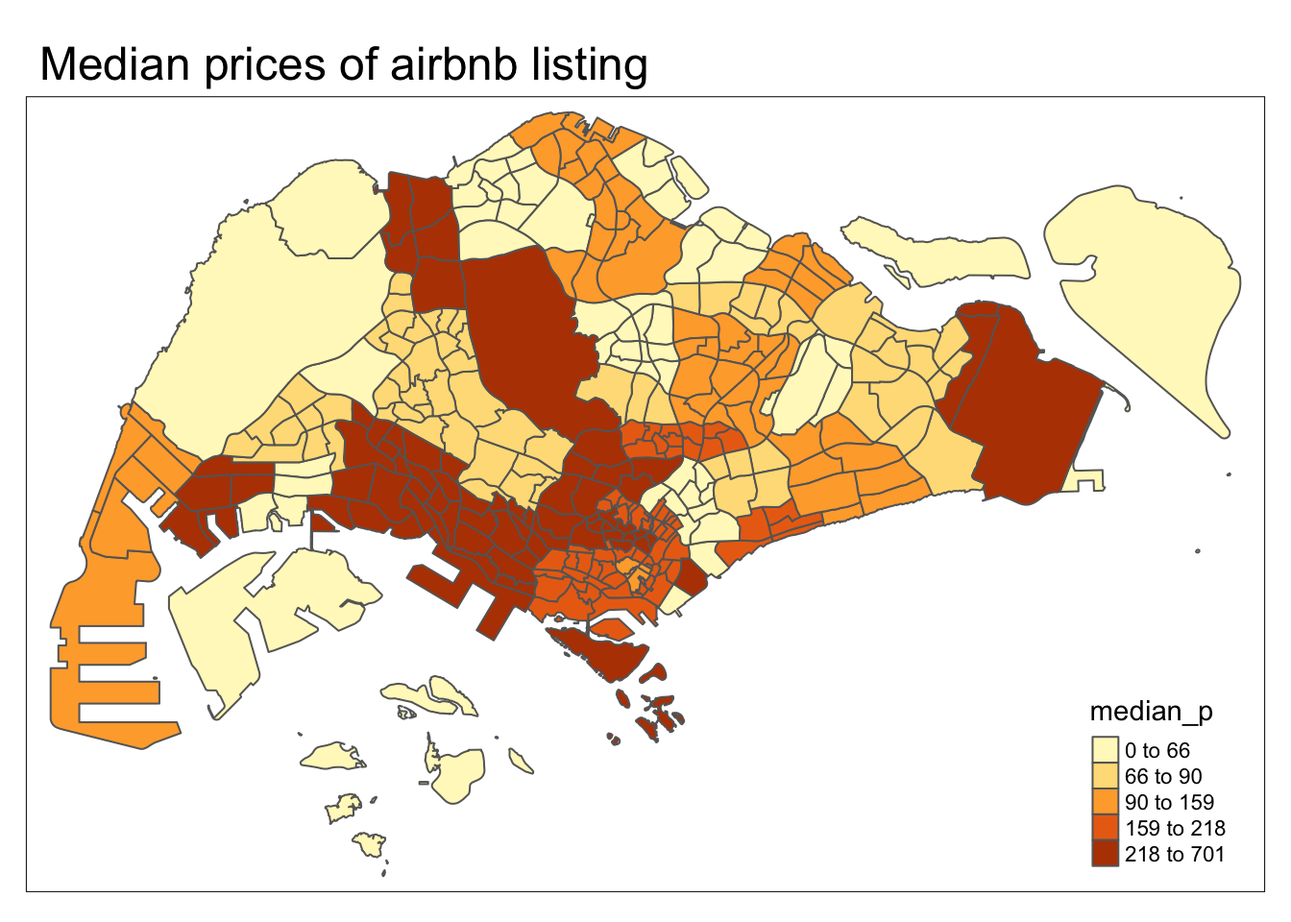
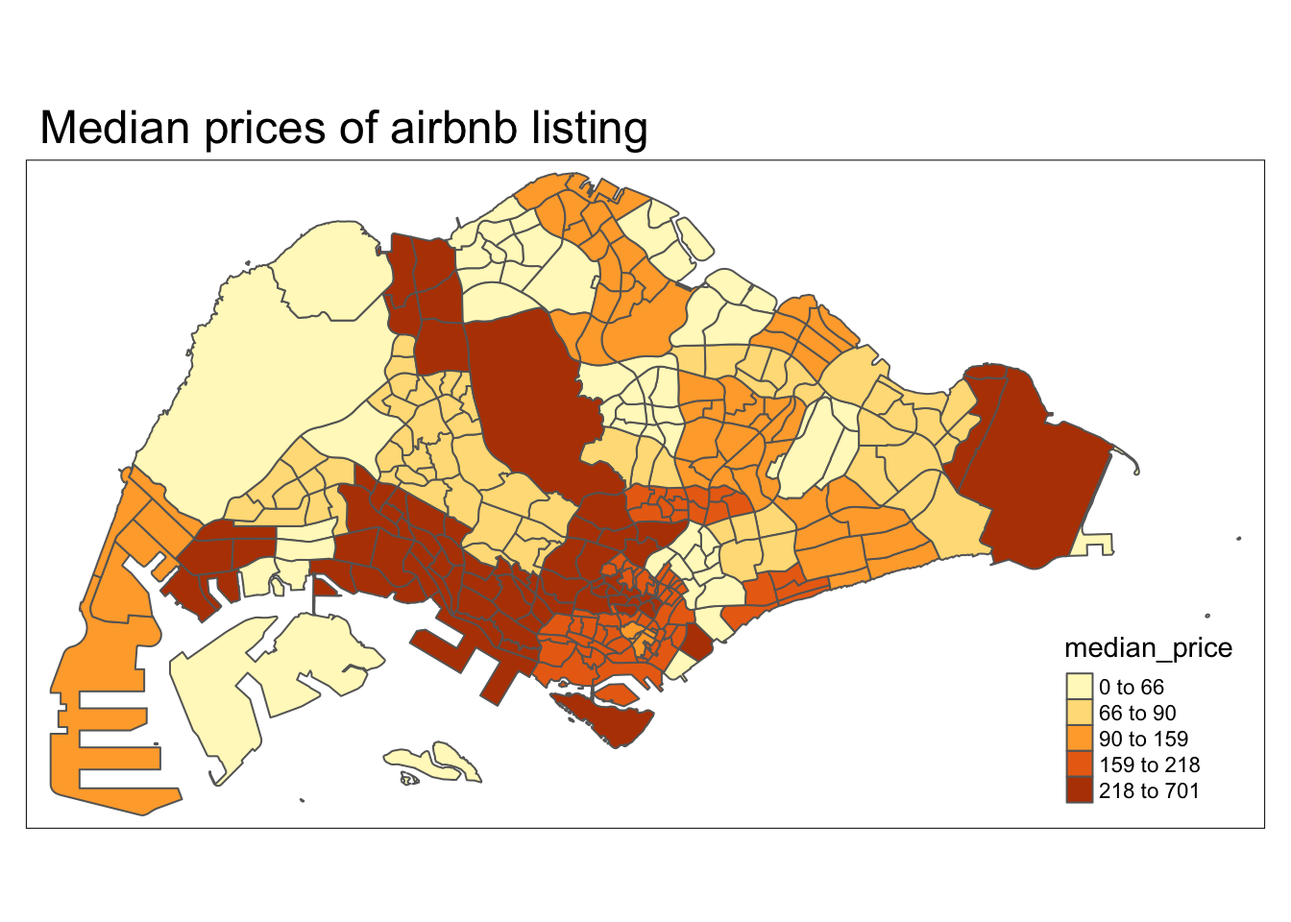
2nd commit of take-home exercise 3

diff --git a/_site/Take-home_Ex/Take-home_Ex03/Take-home_Ex03.html b/_site/Take-home_Ex/Take-home_Ex03/Take-home_Ex03.html
@@ -7,7 +7,7 @@
 <meta name="viewport" content="width=device-width, initial-scale=1.0, user-scalable=yes">
 
 <meta name="author" content="Chuang Jin Lei">
-<meta name="dcterms.date" content="2024-03-25">
+<meta name="dcterms.date" content="2024-04-04">
 
 <title>IS415-GAA - Take-home Exercise 3</title>
 <style>
@@ -152,6 +152,10 @@ pre > code.sourceCode > span > a:first-child::before { text-decoration: underlin
     <a class="dropdown-item" href="../../Hands-on_Ex/Hands-on_Ex09/Hands-on_Ex09.html" rel="" target="">
  <span class="dropdown-text">Hands-on Exercise 9</span></a>
   </li>  
+        <li>
+    <a class="dropdown-item" href="../../Hands-on_Ex/Hands-on_Ex11/Hands-on_Ex11.html" rel="" target="">
+ <span class="dropdown-text">Hands-on_Exercise 11</span></a>
+  </li>  
     </ul>
   </li>
   <li class="nav-item dropdown ">
@@ -292,7 +296,7 @@ pre > code.sourceCode > span > a:first-child::before { text-decoration: underlin
     <div>
     <div class="quarto-title-meta-heading">Published</div>
     <div class="quarto-title-meta-contents">
-      <p class="date">March 25, 2024</p>
+      <p class="date">April 4, 2024</p>
     </div>
   </div>
   
@@ -527,7 +531,14 @@ PROJCRS["SVY21",
 </div>
 <p>Removing the outer island from the analysis as there are no airbnb listings there</p>
 <div class="cell">
-<div class="sourceCode cell-code" id="cb11"><pre class="sourceCode r code-with-copy"><code class="sourceCode r"><span id="cb11-1"><a href="#cb11-1" aria-hidden="true" tabindex="-1"></a>mpsz_main <span class="ot">&lt;-</span> mpsz <span class="sc">|&gt;</span> <span class="fu">filter</span>(PLN_AREA_N <span class="sc">!=</span> <span class="st">"SOUTHERN ISLANDS"</span> <span class="sc">|</span> PLN_AREA_N <span class="sc">!=</span> <span class="st">"WESTERN ISLANDS"</span> <span class="sc">|</span> PLN_AREA_N <span class="sc">!=</span> <span class="st">"NORTH-EASTERN ISLANDS"</span>)</span></code><button title="Copy to Clipboard" class="code-copy-button"><i class="bi"></i></button></pre></div>
+<div class="sourceCode cell-code" id="cb11"><pre class="sourceCode r code-with-copy"><code class="sourceCode r"><span id="cb11-1"><a href="#cb11-1" aria-hidden="true" tabindex="-1"></a>mpsz_exc <span class="ot">&lt;-</span> mpsz <span class="sc">|&gt;</span> <span class="fu">filter</span>(SUBZONE_N <span class="sc">==</span> <span class="st">"JURONG ISLAND AND BUKOM"</span> <span class="sc">|</span> SUBZONE_N <span class="sc">==</span> <span class="st">"SUDONG"</span> <span class="sc">|</span> SUBZONE_N <span class="sc">==</span> <span class="st">"SEMAKAU"</span> <span class="sc">|</span> SUBZONE_N <span class="sc">==</span> <span class="st">"SOUTHERN GROUP"</span> <span class="sc">|</span> SUBZONE_N <span class="sc">==</span> <span class="st">"NORTH-EASTERN ISLANDS"</span>)</span>
+<span id="cb11-2"><a href="#cb11-2" aria-hidden="true" tabindex="-1"></a>mpsz_exc_union <span class="ot">&lt;-</span> mpsz_exc <span class="sc">|&gt;</span> <span class="fu">st_union</span>()</span>
+<span id="cb11-3"><a href="#cb11-3" aria-hidden="true" tabindex="-1"></a>mpsz_union <span class="ot">&lt;-</span> mpsz <span class="sc">|&gt;</span> <span class="fu">st_union</span>()</span>
+<span id="cb11-4"><a href="#cb11-4" aria-hidden="true" tabindex="-1"></a>mpsz_main_union <span class="ot">&lt;-</span> <span class="fu">st_difference</span>(mpsz_union, mpsz_exc_union)</span>
+<span id="cb11-5"><a href="#cb11-5" aria-hidden="true" tabindex="-1"></a>mpsz_main <span class="ot">&lt;-</span> mpsz <span class="sc">|&gt;</span> <span class="fu">st_intersection</span>(mpsz_main_union) </span>
+<span id="cb11-6"><a href="#cb11-6" aria-hidden="true" tabindex="-1"></a>mpsz2 <span class="ot">&lt;-</span> <span class="fu">select</span>(mpsz, SUBZONE_N, geometry)</span>
+<span id="cb11-7"><a href="#cb11-7" aria-hidden="true" tabindex="-1"></a>mpsz_main2 <span class="ot">&lt;-</span> mpsz_main <span class="sc">|&gt;</span> <span class="fu">st_drop_geometry</span>()</span>
+<span id="cb11-8"><a href="#cb11-8" aria-hidden="true" tabindex="-1"></a>mpsz_main3 <span class="ot">&lt;-</span> mpsz2 <span class="sc">|&gt;</span> <span class="fu">inner_join</span>(mpsz_main2)</span></code><button title="Copy to Clipboard" class="code-copy-button"><i class="bi"></i></button></pre></div>
 </div>
 </section>
 <section id="data-processing" class="level3">
@@ -540,11 +551,11 @@ PROJCRS["SVY21",
 <p>The coordinate reference system does not seem to match the EPSG code.</p>
 <p>Hence, st_set_crs from sf package will be used to input the correct EPSG code.</p>
 <div class="cell">
-<div class="sourceCode cell-code" id="cb12"><pre class="sourceCode r code-with-copy"><code class="sourceCode r"><span id="cb12-1"><a href="#cb12-1" aria-hidden="true" tabindex="-1"></a>mpsz_main <span class="ot">&lt;-</span> <span class="fu">st_set_crs</span>(mpsz_main, <span class="dv">3414</span>)</span></code><button title="Copy to Clipboard" class="code-copy-button"><i class="bi"></i></button></pre></div>
+<div class="sourceCode cell-code" id="cb12"><pre class="sourceCode r code-with-copy"><code class="sourceCode r"><span id="cb12-1"><a href="#cb12-1" aria-hidden="true" tabindex="-1"></a>mpsz_main3 <span class="ot">&lt;-</span> <span class="fu">st_set_crs</span>(mpsz_main3, <span class="dv">3414</span>)</span></code><button title="Copy to Clipboard" class="code-copy-button"><i class="bi"></i></button></pre></div>
 </div>
 <p>Checking to see if the EPSG code has been updated correctly</p>
 <div class="cell">
-<div class="sourceCode cell-code" id="cb13"><pre class="sourceCode r code-with-copy"><code class="sourceCode r"><span id="cb13-1"><a href="#cb13-1" aria-hidden="true" tabindex="-1"></a><span class="fu">st_crs</span>(mpsz_main)</span></code><button title="Copy to Clipboard" class="code-copy-button"><i class="bi"></i></button></pre></div>
+<div class="sourceCode cell-code" id="cb13"><pre class="sourceCode r code-with-copy"><code class="sourceCode r"><span id="cb13-1"><a href="#cb13-1" aria-hidden="true" tabindex="-1"></a><span class="fu">st_crs</span>(mpsz_main3)</span></code><button title="Copy to Clipboard" class="code-copy-button"><i class="bi"></i></button></pre></div>
 <div class="cell-output cell-output-stdout">
 <pre><code>Coordinate Reference System:
   User input: EPSG:3414 
@@ -607,19 +618,19 @@ PROJCRS["SVY21 / Singapore TM",
 <div class="cell">
 <div class="sourceCode cell-code" id="cb16"><pre class="sourceCode r code-with-copy"><code class="sourceCode r"><span id="cb16-1"><a href="#cb16-1" aria-hidden="true" tabindex="-1"></a>mean_price <span class="ot">&lt;-</span> listing_clean <span class="sc">|&gt;</span> </span>
 <span id="cb16-2"><a href="#cb16-2" aria-hidden="true" tabindex="-1"></a>  <span class="fu">group_by</span>(neighbourhood_cleansed) <span class="sc">|&gt;</span> </span>
-<span id="cb16-3"><a href="#cb16-3" aria-hidden="true" tabindex="-1"></a>  <span class="fu">summarise_at</span>(<span class="fu">vars</span>(price), <span class="fu">list</span>(<span class="at">mean_p =</span> mean))</span>
+<span id="cb16-3"><a href="#cb16-3" aria-hidden="true" tabindex="-1"></a>  <span class="fu">summarise_at</span>(<span class="fu">vars</span>(price), <span class="fu">list</span>(<span class="at">mean_price =</span> mean))</span>
 <span id="cb16-4"><a href="#cb16-4" aria-hidden="true" tabindex="-1"></a></span>
 <span id="cb16-5"><a href="#cb16-5" aria-hidden="true" tabindex="-1"></a>median_price <span class="ot">&lt;-</span> listing_clean <span class="sc">|&gt;</span> </span>
 <span id="cb16-6"><a href="#cb16-6" aria-hidden="true" tabindex="-1"></a>  <span class="fu">group_by</span>(neighbourhood_cleansed) <span class="sc">|&gt;</span> </span>
-<span id="cb16-7"><a href="#cb16-7" aria-hidden="true" tabindex="-1"></a>  <span class="fu">summarise_at</span>(<span class="fu">vars</span>(price), <span class="fu">list</span>(<span class="at">median_p =</span> median))</span>
+<span id="cb16-7"><a href="#cb16-7" aria-hidden="true" tabindex="-1"></a>  <span class="fu">summarise_at</span>(<span class="fu">vars</span>(price), <span class="fu">list</span>(<span class="at">median_price =</span> median))</span>
 <span id="cb16-8"><a href="#cb16-8" aria-hidden="true" tabindex="-1"></a></span>
 <span id="cb16-9"><a href="#cb16-9" aria-hidden="true" tabindex="-1"></a>max_price <span class="ot">&lt;-</span> listing_clean <span class="sc">|&gt;</span> </span>
 <span id="cb16-10"><a href="#cb16-10" aria-hidden="true" tabindex="-1"></a>  <span class="fu">group_by</span>(neighbourhood_cleansed) <span class="sc">|&gt;</span> </span>
-<span id="cb16-11"><a href="#cb16-11" aria-hidden="true" tabindex="-1"></a>  <span class="fu">summarise_at</span>(<span class="fu">vars</span>(price), <span class="fu">list</span>(<span class="at">max_p =</span> max))</span>
+<span id="cb16-11"><a href="#cb16-11" aria-hidden="true" tabindex="-1"></a>  <span class="fu">summarise_at</span>(<span class="fu">vars</span>(price), <span class="fu">list</span>(<span class="at">max_price =</span> max))</span>
 <span id="cb16-12"><a href="#cb16-12" aria-hidden="true" tabindex="-1"></a></span>
 <span id="cb16-13"><a href="#cb16-13" aria-hidden="true" tabindex="-1"></a>min_price <span class="ot">&lt;-</span> listing_clean <span class="sc">|&gt;</span> </span>
 <span id="cb16-14"><a href="#cb16-14" aria-hidden="true" tabindex="-1"></a>  <span class="fu">group_by</span>(neighbourhood_cleansed) <span class="sc">|&gt;</span> </span>
-<span id="cb16-15"><a href="#cb16-15" aria-hidden="true" tabindex="-1"></a>  <span class="fu">summarise_at</span>(<span class="fu">vars</span>(price), <span class="fu">list</span>(<span class="at">min_p =</span> min))</span></code><button title="Copy to Clipboard" class="code-copy-button"><i class="bi"></i></button></pre></div>
+<span id="cb16-15"><a href="#cb16-15" aria-hidden="true" tabindex="-1"></a>  <span class="fu">summarise_at</span>(<span class="fu">vars</span>(price), <span class="fu">list</span>(<span class="at">min_price =</span> min))</span></code><button title="Copy to Clipboard" class="code-copy-button"><i class="bi"></i></button></pre></div>
 </div>
 </section>
 <section id="combining-all-aggregation-prices-into-a-single-dataframe" class="level4">
@@ -635,7 +646,7 @@ PROJCRS["SVY21 / Singapore TM",
 <h4 class="anchored" data-anchor-id="performing-relational-join">2.2.4.5 Performing relational join</h4>
 <p>This is done to join the attribute data from aggregate_price dataframe to the spatialpolygondataframe of mpsz</p>
 <div class="cell">
-<div class="sourceCode cell-code" id="cb18"><pre class="sourceCode r code-with-copy"><code class="sourceCode r"><span id="cb18-1"><a href="#cb18-1" aria-hidden="true" tabindex="-1"></a>airbnb <span class="ot">&lt;-</span> mpsz_main <span class="sc">|&gt;</span> <span class="fu">left_join</span>(aggregate_price, <span class="at">by =</span> <span class="fu">c</span>(<span class="st">"PLN_AREA_N"</span> <span class="ot">=</span> <span class="st">"neighbourhood_cleansed"</span>))</span>
+<div class="sourceCode cell-code" id="cb18"><pre class="sourceCode r code-with-copy"><code class="sourceCode r"><span id="cb18-1"><a href="#cb18-1" aria-hidden="true" tabindex="-1"></a>airbnb <span class="ot">&lt;-</span> mpsz_main3 <span class="sc">|&gt;</span> <span class="fu">left_join</span>(aggregate_price, <span class="at">by =</span> <span class="fu">c</span>(<span class="st">"PLN_AREA_N"</span> <span class="ot">=</span> <span class="st">"neighbourhood_cleansed"</span>))</span>
 <span id="cb18-2"><a href="#cb18-2" aria-hidden="true" tabindex="-1"></a>airbnb[<span class="fu">is.na</span>(airbnb)] <span class="ot">&lt;-</span> <span class="dv">0</span></span></code><button title="Copy to Clipboard" class="code-copy-button"><i class="bi"></i></button></pre></div>
 </div>
 </section>
@@ -646,19 +657,19 @@ PROJCRS["SVY21 / Singapore TM",
 <h1>3.Visualizing aggregated price indicators by planning subzone</h1>
 <div class="cell">
 <div class="sourceCode cell-code" id="cb19"><pre class="sourceCode r code-with-copy"><code class="sourceCode r"><span id="cb19-1"><a href="#cb19-1" aria-hidden="true" tabindex="-1"></a>mean <span class="ot">&lt;-</span> <span class="fu">tm_shape</span>(airbnb) <span class="sc">+</span> </span>
-<span id="cb19-2"><a href="#cb19-2" aria-hidden="true" tabindex="-1"></a>  <span class="fu">tm_fill</span>(<span class="st">"mean_p"</span>, <span class="at">n =</span> <span class="dv">5</span>, <span class="at">style =</span> <span class="st">"quantile"</span>) <span class="sc">+</span></span>
+<span id="cb19-2"><a href="#cb19-2" aria-hidden="true" tabindex="-1"></a>  <span class="fu">tm_fill</span>(<span class="st">"mean_price"</span>, <span class="at">n =</span> <span class="dv">5</span>, <span class="at">breaks =</span> <span class="fu">c</span>(<span class="dv">0</span>,<span class="dv">50</span>, <span class="fl">115.6</span>, <span class="fl">145.5</span>, <span class="fl">235.5</span>,<span class="fu">max</span>(airbnb<span class="sc">$</span>mean_p)), <span class="at">palette =</span> <span class="st">"YlOrRd"</span>) <span class="sc">+</span></span>
 <span id="cb19-3"><a href="#cb19-3" aria-hidden="true" tabindex="-1"></a>  <span class="fu">tm_borders</span>() <span class="sc">+</span> </span>
 <span id="cb19-4"><a href="#cb19-4" aria-hidden="true" tabindex="-1"></a>  <span class="fu">tm_layout</span>(<span class="at">main.title =</span> <span class="st">"Mean prices of airbnb listing"</span>)</span>
 <span id="cb19-5"><a href="#cb19-5" aria-hidden="true" tabindex="-1"></a>median <span class="ot">&lt;-</span> <span class="fu">tm_shape</span>(airbnb) <span class="sc">+</span> </span>
-<span id="cb19-6"><a href="#cb19-6" aria-hidden="true" tabindex="-1"></a>  <span class="fu">tm_fill</span>(<span class="st">"median_p"</span>, <span class="at">n =</span> <span class="dv">5</span>, <span class="at">style =</span> <span class="st">"quantile"</span>) <span class="sc">+</span></span>
+<span id="cb19-6"><a href="#cb19-6" aria-hidden="true" tabindex="-1"></a>  <span class="fu">tm_fill</span>(<span class="st">"median_price"</span>, <span class="at">n =</span> <span class="dv">5</span>, <span class="at">style =</span> <span class="st">"quantile"</span>) <span class="sc">+</span></span>
 <span id="cb19-7"><a href="#cb19-7" aria-hidden="true" tabindex="-1"></a>  <span class="fu">tm_borders</span>() <span class="sc">+</span> </span>
 <span id="cb19-8"><a href="#cb19-8" aria-hidden="true" tabindex="-1"></a>  <span class="fu">tm_layout</span>(<span class="at">main.title =</span> <span class="st">"Median prices of airbnb listing"</span>)</span>
 <span id="cb19-9"><a href="#cb19-9" aria-hidden="true" tabindex="-1"></a>max <span class="ot">&lt;-</span> <span class="fu">tm_shape</span>(airbnb) <span class="sc">+</span> </span>
-<span id="cb19-10"><a href="#cb19-10" aria-hidden="true" tabindex="-1"></a>  <span class="fu">tm_fill</span>(<span class="st">"max_p"</span>, <span class="at">n =</span> <span class="dv">5</span>, <span class="at">style =</span> <span class="st">"quantile"</span>) <span class="sc">+</span></span>
+<span id="cb19-10"><a href="#cb19-10" aria-hidden="true" tabindex="-1"></a>  <span class="fu">tm_fill</span>(<span class="st">"max_price"</span>, <span class="at">n =</span> <span class="dv">5</span>, <span class="at">style =</span> <span class="st">"quantile"</span>) <span class="sc">+</span></span>
 <span id="cb19-11"><a href="#cb19-11" aria-hidden="true" tabindex="-1"></a>  <span class="fu">tm_borders</span>() <span class="sc">+</span> </span>
 <span id="cb19-12"><a href="#cb19-12" aria-hidden="true" tabindex="-1"></a>  <span class="fu">tm_layout</span>(<span class="at">main.title =</span> <span class="st">"Max prices of airbnb listing"</span>)</span>
 <span id="cb19-13"><a href="#cb19-13" aria-hidden="true" tabindex="-1"></a>min <span class="ot">&lt;-</span> <span class="fu">tm_shape</span>(airbnb) <span class="sc">+</span> </span>
-<span id="cb19-14"><a href="#cb19-14" aria-hidden="true" tabindex="-1"></a>  <span class="fu">tm_fill</span>(<span class="st">"min_p"</span>, <span class="at">n =</span> <span class="dv">5</span>, <span class="at">style =</span> <span class="st">"quantile"</span>) <span class="sc">+</span></span>
+<span id="cb19-14"><a href="#cb19-14" aria-hidden="true" tabindex="-1"></a>  <span class="fu">tm_fill</span>(<span class="st">"min_price"</span>, <span class="at">n =</span> <span class="dv">5</span>, <span class="at">style =</span> <span class="st">"quantile"</span>) <span class="sc">+</span></span>
 <span id="cb19-15"><a href="#cb19-15" aria-hidden="true" tabindex="-1"></a>  <span class="fu">tm_borders</span>() <span class="sc">+</span> </span>
 <span id="cb19-16"><a href="#cb19-16" aria-hidden="true" tabindex="-1"></a>  <span class="fu">tm_layout</span>(<span class="at">main.title =</span> <span class="st">"Minimum prices of airbnb listing"</span>)</span>
 <span id="cb19-17"><a href="#cb19-17" aria-hidden="true" tabindex="-1"></a>mean </span></code><button title="Copy to Clipboard" class="code-copy-button"><i class="bi"></i></button></pre></div>
@@ -688,21 +699,21 @@ PROJCRS["SVY21 / Singapore TM",
 <span id="cb23-2"><a href="#cb23-2" aria-hidden="true" tabindex="-1"></a><span class="fu">summary</span>(wm_q)</span></code><button title="Copy to Clipboard" class="code-copy-button"><i class="bi"></i></button></pre></div>
 <div class="cell-output cell-output-stdout">
 <pre><code>Neighbour list object:
-Number of regions: 323 
+Number of regions: 319 
 Number of nonzero links: 1934 
-Percentage nonzero weights: 1.853751 
-Average number of links: 5.987616 
-5 regions with no links:
-17 18 19 295 302
-6 disjoint connected subgraphs
+Percentage nonzero weights: 1.900532 
+Average number of links: 6.062696 
+1 region with no links:
+292
+2 disjoint connected subgraphs
 Link number distribution:
 
  0  1  2  3  4  5  6  7  8  9 10 11 12 14 17 
- 5  2  6 10 26 77 87 51 34 16  3  3  1  1  1 
+ 1  2  6 10 26 77 87 51 34 16  3  3  1  1  1 
 2 least connected regions:
-16 234 with 1 link
+16 231 with 1 link
 1 most connected region:
-313 with 17 links</code></pre>
+309 with 17 links</code></pre>
 </div>
 </div>
 <p>Assigning equal weights to each neighbouring polygon</p>
@@ -714,13 +725,13 @@ Link number distribution:
 <div class="cell-output cell-output-stdout">
 <pre><code>Characteristics of weights list object:
 Neighbour list object:
-Number of regions: 323 
+Number of regions: 319 
 Number of nonzero links: 1934 
-Percentage nonzero weights: 1.853751 
-Average number of links: 5.987616 
-5 regions with no links:
-17 18 19 295 302
-6 disjoint connected subgraphs
+Percentage nonzero weights: 1.900532 
+Average number of links: 6.062696 
+1 region with no links:
+292
+2 disjoint connected subgraphs
 
 Weights style: W 
 Weights constants summary:
@@ -732,17 +743,17 @@ W 318 101124 318 111.2781 1309.875</code></pre>
 <section id="computing-local-morans-i" class="level2">
 <h2 class="anchored" data-anchor-id="computing-local-morans-i">4.2 Computing local Moran’s I</h2>
 <div class="cell">
-<div class="sourceCode cell-code" id="cb27"><pre class="sourceCode r code-with-copy"><code class="sourceCode r"><span id="cb27-1"><a href="#cb27-1" aria-hidden="true" tabindex="-1"></a>localMI_mean <span class="ot">&lt;-</span> <span class="fu">localmoran</span>(airbnb<span class="sc">$</span>mean_p, rswm_q)</span>
-<span id="cb27-2"><a href="#cb27-2" aria-hidden="true" tabindex="-1"></a>localMI_median <span class="ot">&lt;-</span> <span class="fu">localmoran</span>(airbnb<span class="sc">$</span>median_p, rswm_q)</span>
-<span id="cb27-3"><a href="#cb27-3" aria-hidden="true" tabindex="-1"></a>localMI_max <span class="ot">&lt;-</span> <span class="fu">localmoran</span>(airbnb<span class="sc">$</span>max_p, rswm_q)</span>
-<span id="cb27-4"><a href="#cb27-4" aria-hidden="true" tabindex="-1"></a>localMI_min <span class="ot">&lt;-</span> <span class="fu">localmoran</span>(airbnb<span class="sc">$</span>min_p, rswm_q)</span></code><button title="Copy to Clipboard" class="code-copy-button"><i class="bi"></i></button></pre></div>
+<div class="sourceCode cell-code" id="cb27"><pre class="sourceCode r code-with-copy"><code class="sourceCode r"><span id="cb27-1"><a href="#cb27-1" aria-hidden="true" tabindex="-1"></a>localMI_mean <span class="ot">&lt;-</span> <span class="fu">localmoran</span>(airbnb<span class="sc">$</span>mean_price, rswm_q)</span>
+<span id="cb27-2"><a href="#cb27-2" aria-hidden="true" tabindex="-1"></a>localMI_median <span class="ot">&lt;-</span> <span class="fu">localmoran</span>(airbnb<span class="sc">$</span>median_price, rswm_q)</span>
+<span id="cb27-3"><a href="#cb27-3" aria-hidden="true" tabindex="-1"></a>localMI_max <span class="ot">&lt;-</span> <span class="fu">localmoran</span>(airbnb<span class="sc">$</span>max_price, rswm_q)</span>
+<span id="cb27-4"><a href="#cb27-4" aria-hidden="true" tabindex="-1"></a>localMI_min <span class="ot">&lt;-</span> <span class="fu">localmoran</span>(airbnb<span class="sc">$</span>min_price, rswm_q)</span></code><button title="Copy to Clipboard" class="code-copy-button"><i class="bi"></i></button></pre></div>
 </div>
 </section>
 <section id="mapping-the-local-morans-i-statistic" class="level2">
 <h2 class="anchored" data-anchor-id="mapping-the-local-morans-i-statistic">4.3 Mapping the Local Moran’s I statistic</h2>
 <p>The local moran’s I dataframe have to be appended onto the mpsz spatialpolygondataframe before they can be mapped</p>
 <div class="cell">
-<div class="sourceCode cell-code" id="cb28"><pre class="sourceCode r code-with-copy"><code class="sourceCode r"><span id="cb28-1"><a href="#cb28-1" aria-hidden="true" tabindex="-1"></a>airbnb.localMI_mean <span class="ot">&lt;-</span> <span class="fu">cbind</span>(mpsz_main, localMI_mean) <span class="sc">|&gt;</span></span>
+<div class="sourceCode cell-code" id="cb28"><pre class="sourceCode r code-with-copy"><code class="sourceCode r"><span id="cb28-1"><a href="#cb28-1" aria-hidden="true" tabindex="-1"></a>airbnb.localMI_mean <span class="ot">&lt;-</span> <span class="fu">cbind</span>(airbnb, localMI_mean) <span class="sc">|&gt;</span></span>
 <span id="cb28-2"><a href="#cb28-2" aria-hidden="true" tabindex="-1"></a>  <span class="fu">rename</span>(<span class="at">Pr.Ii =</span> Pr.z....E.Ii..)</span>
 <span id="cb28-3"><a href="#cb28-3" aria-hidden="true" tabindex="-1"></a>airbnb.localMI_median <span class="ot">&lt;-</span> <span class="fu">cbind</span>(mpsz_main, localMI_median) <span class="sc">|&gt;</span></span>
 <span id="cb28-4"><a href="#cb28-4" aria-hidden="true" tabindex="-1"></a>  <span class="fu">rename</span>(<span class="at">Pr.Ii =</span> Pr.z....E.Ii..)</span>
@@ -759,8 +770,9 @@ W 318 101124 318 111.2781 1309.875</code></pre>
 <span id="cb29-3"><a href="#cb29-3" aria-hidden="true" tabindex="-1"></a>          <span class="at">style =</span> <span class="st">"pretty"</span>,</span>
 <span id="cb29-4"><a href="#cb29-4" aria-hidden="true" tabindex="-1"></a>          <span class="at">palette =</span> <span class="st">"RdBu"</span>,</span>
 <span id="cb29-5"><a href="#cb29-5" aria-hidden="true" tabindex="-1"></a>          <span class="at">title =</span> <span class="st">"local moran statistics"</span>) <span class="sc">+</span></span>
-<span id="cb29-6"><a href="#cb29-6" aria-hidden="true" tabindex="-1"></a>  <span class="fu">tm_borders</span>(<span class="at">alpha =</span> <span class="fl">0.5</span>)</span>
-<span id="cb29-7"><a href="#cb29-7" aria-hidden="true" tabindex="-1"></a>map_i_mean</span></code><button title="Copy to Clipboard" class="code-copy-button"><i class="bi"></i></button></pre></div>
+<span id="cb29-6"><a href="#cb29-6" aria-hidden="true" tabindex="-1"></a>  <span class="fu">tm_borders</span>(<span class="at">alpha =</span> <span class="fl">0.5</span>) <span class="sc">+</span></span>
+<span id="cb29-7"><a href="#cb29-7" aria-hidden="true" tabindex="-1"></a>   <span class="fu">tm_layout</span>(<span class="at">main.title =</span> <span class="st">"Local Moran Statistic of mean Airbnb prices"</span> , <span class="at">title.size =</span> <span class="dv">1</span>)</span>
+<span id="cb29-8"><a href="#cb29-8" aria-hidden="true" tabindex="-1"></a>map_i_mean</span></code><button title="Copy to Clipboard" class="code-copy-button"><i class="bi"></i></button></pre></div>
 <div class="cell-output-display">
 <p><img src="Take-home_Ex03_files/figure-html/unnamed-chunk-17-1.png" class="img-fluid" width="672"></p>
 </div>
@@ -803,9 +815,11 @@ W 318 101124 318 111.2781 1309.875</code></pre>
 <span id="cb33-2"><a href="#cb33-2" aria-hidden="true" tabindex="-1"></a>  <span class="fu">tm_fill</span>(<span class="at">col =</span> <span class="st">"Pr.Ii"</span>, </span>
 <span id="cb33-3"><a href="#cb33-3" aria-hidden="true" tabindex="-1"></a>          <span class="at">breaks=</span><span class="fu">c</span>(<span class="sc">-</span><span class="cn">Inf</span>, <span class="fl">0.001</span>, <span class="fl">0.01</span>, <span class="fl">0.05</span>, <span class="fl">0.1</span>, <span class="cn">Inf</span>),</span>
 <span id="cb33-4"><a href="#cb33-4" aria-hidden="true" tabindex="-1"></a>          <span class="at">palette=</span><span class="st">"-Blues"</span>, </span>
-<span id="cb33-5"><a href="#cb33-5" aria-hidden="true" tabindex="-1"></a>          <span class="at">title =</span> <span class="st">"local Moran's I p-values"</span>) <span class="sc">+</span></span>
-<span id="cb33-6"><a href="#cb33-6" aria-hidden="true" tabindex="-1"></a>  <span class="fu">tm_borders</span>(<span class="at">alpha =</span> <span class="fl">0.5</span>)</span>
-<span id="cb33-7"><a href="#cb33-7" aria-hidden="true" tabindex="-1"></a>map_pval_mean</span></code><button title="Copy to Clipboard" class="code-copy-button"><i class="bi"></i></button></pre></div>
+<span id="cb33-5"><a href="#cb33-5" aria-hidden="true" tabindex="-1"></a>          <span class="at">title =</span> <span class="st">"local Moran's p-values"</span>) <span class="sc">+</span></span>
+<span id="cb33-6"><a href="#cb33-6" aria-hidden="true" tabindex="-1"></a>  <span class="fu">tm_borders</span>(<span class="at">alpha =</span> <span class="fl">0.5</span>) <span class="sc">+</span> </span>
+<span id="cb33-7"><a href="#cb33-7" aria-hidden="true" tabindex="-1"></a>   <span class="fu">tm_layout</span>(<span class="at">main.title =</span> <span class="st">"Local Moran p-value of mean Airbnb prices"</span>, <span class="at">title.size =</span> <span class="dv">1</span>)</span>
+<span id="cb33-8"><a href="#cb33-8" aria-hidden="true" tabindex="-1"></a></span>
+<span id="cb33-9"><a href="#cb33-9" aria-hidden="true" tabindex="-1"></a>map_pval_mean</span></code><button title="Copy to Clipboard" class="code-copy-button"><i class="bi"></i></button></pre></div>
 <div class="cell-output-display">
 <p><img src="Take-home_Ex03_files/figure-html/unnamed-chunk-18-1.png" class="img-fluid" width="672"></p>
 </div>
@@ -813,7 +827,7 @@ W 318 101124 318 111.2781 1309.875</code></pre>
 <span id="cb34-2"><a href="#cb34-2" aria-hidden="true" tabindex="-1"></a>  <span class="fu">tm_fill</span>(<span class="at">col =</span> <span class="st">"Pr.Ii"</span>, </span>
 <span id="cb34-3"><a href="#cb34-3" aria-hidden="true" tabindex="-1"></a>          <span class="at">breaks=</span><span class="fu">c</span>(<span class="sc">-</span><span class="cn">Inf</span>, <span class="fl">0.001</span>, <span class="fl">0.01</span>, <span class="fl">0.05</span>, <span class="fl">0.1</span>, <span class="cn">Inf</span>),</span>
 <span id="cb34-4"><a href="#cb34-4" aria-hidden="true" tabindex="-1"></a>          <span class="at">palette=</span><span class="st">"-Blues"</span>, </span>
-<span id="cb34-5"><a href="#cb34-5" aria-hidden="true" tabindex="-1"></a>          <span class="at">title =</span> <span class="st">"local Moran's I p-values"</span>) <span class="sc">+</span></span>
+<span id="cb34-5"><a href="#cb34-5" aria-hidden="true" tabindex="-1"></a>          <span class="at">title =</span> <span class="st">"local Moran's p-values"</span>) <span class="sc">+</span></span>
 <span id="cb34-6"><a href="#cb34-6" aria-hidden="true" tabindex="-1"></a>  <span class="fu">tm_borders</span>(<span class="at">alpha =</span> <span class="fl">0.5</span>)</span>
 <span id="cb34-7"><a href="#cb34-7" aria-hidden="true" tabindex="-1"></a>map_pval_median</span></code><button title="Copy to Clipboard" class="code-copy-button"><i class="bi"></i></button></pre></div>
 <div class="cell-output-display">
@@ -823,7 +837,7 @@ W 318 101124 318 111.2781 1309.875</code></pre>
 <span id="cb35-2"><a href="#cb35-2" aria-hidden="true" tabindex="-1"></a>  <span class="fu">tm_fill</span>(<span class="at">col =</span> <span class="st">"Pr.Ii"</span>, </span>
 <span id="cb35-3"><a href="#cb35-3" aria-hidden="true" tabindex="-1"></a>          <span class="at">breaks=</span><span class="fu">c</span>(<span class="sc">-</span><span class="cn">Inf</span>, <span class="fl">0.001</span>, <span class="fl">0.01</span>, <span class="fl">0.05</span>, <span class="fl">0.1</span>, <span class="cn">Inf</span>),</span>
 <span id="cb35-4"><a href="#cb35-4" aria-hidden="true" tabindex="-1"></a>          <span class="at">palette=</span><span class="st">"-Blues"</span>, </span>
-<span id="cb35-5"><a href="#cb35-5" aria-hidden="true" tabindex="-1"></a>          <span class="at">title =</span> <span class="st">"local Moran's I p-values"</span>) <span class="sc">+</span></span>
+<span id="cb35-5"><a href="#cb35-5" aria-hidden="true" tabindex="-1"></a>          <span class="at">title =</span> <span class="st">"local Moran's p-values"</span>) <span class="sc">+</span></span>
 <span id="cb35-6"><a href="#cb35-6" aria-hidden="true" tabindex="-1"></a>  <span class="fu">tm_borders</span>(<span class="at">alpha =</span> <span class="fl">0.5</span>)</span>
 <span id="cb35-7"><a href="#cb35-7" aria-hidden="true" tabindex="-1"></a>map_pval_max</span></code><button title="Copy to Clipboard" class="code-copy-button"><i class="bi"></i></button></pre></div>
 <div class="cell-output-display">
@@ -833,9 +847,14 @@ W 318 101124 318 111.2781 1309.875</code></pre>
 <span id="cb36-2"><a href="#cb36-2" aria-hidden="true" tabindex="-1"></a>  <span class="fu">tm_fill</span>(<span class="at">col =</span> <span class="st">"Pr.Ii"</span>, </span>
 <span id="cb36-3"><a href="#cb36-3" aria-hidden="true" tabindex="-1"></a>          <span class="at">breaks=</span><span class="fu">c</span>(<span class="sc">-</span><span class="cn">Inf</span>, <span class="fl">0.001</span>, <span class="fl">0.01</span>, <span class="fl">0.05</span>, <span class="fl">0.1</span>, <span class="cn">Inf</span>),</span>
 <span id="cb36-4"><a href="#cb36-4" aria-hidden="true" tabindex="-1"></a>          <span class="at">palette=</span><span class="st">"-Blues"</span>, </span>
-<span id="cb36-5"><a href="#cb36-5" aria-hidden="true" tabindex="-1"></a>          <span class="at">title =</span> <span class="st">"local Moran's I p-values"</span>) <span class="sc">+</span></span>
-<span id="cb36-6"><a href="#cb36-6" aria-hidden="true" tabindex="-1"></a>  <span class="fu">tm_borders</span>(<span class="at">alpha =</span> <span class="fl">0.5</span>)</span>
-<span id="cb36-7"><a href="#cb36-7" aria-hidden="true" tabindex="-1"></a>map_pval_min</span></code><button title="Copy to Clipboard" class="code-copy-button"><i class="bi"></i></button></pre></div>
+<span id="cb36-5"><a href="#cb36-5" aria-hidden="true" tabindex="-1"></a>          <span class="at">title =</span> <span class="st">"local Moran's p-values"</span>) <span class="sc">+</span></span>
+<span id="cb36-6"><a href="#cb36-6" aria-hidden="true" tabindex="-1"></a>  <span class="fu">tm_borders</span>(<span class="at">alpha =</span> <span class="fl">0.5</span>) <span class="sc">+</span></span>
+<span id="cb36-7"><a href="#cb36-7" aria-hidden="true" tabindex="-1"></a>  <span class="fu">tm_layout</span>(<span class="at">legend.outside =</span> <span class="cn">TRUE</span>,</span>
+<span id="cb36-8"><a href="#cb36-8" aria-hidden="true" tabindex="-1"></a>            <span class="at">legend.height =</span> <span class="fl">0.45</span>, </span>
+<span id="cb36-9"><a href="#cb36-9" aria-hidden="true" tabindex="-1"></a>            <span class="at">legend.width =</span> <span class="fl">5.0</span>,</span>
+<span id="cb36-10"><a href="#cb36-10" aria-hidden="true" tabindex="-1"></a>            <span class="at">legend.position =</span> <span class="fu">c</span>(<span class="st">"right"</span>, <span class="st">"bottom"</span>),</span>
+<span id="cb36-11"><a href="#cb36-11" aria-hidden="true" tabindex="-1"></a>            <span class="at">frame =</span> <span class="cn">FALSE</span>)</span>
+<span id="cb36-12"><a href="#cb36-12" aria-hidden="true" tabindex="-1"></a>map_pval_min</span></code><button title="Copy to Clipboard" class="code-copy-button"><i class="bi"></i></button></pre></div>
 <div class="cell-output-display">
 <p><img src="Take-home_Ex03_files/figure-html/unnamed-chunk-18-4.png" class="img-fluid" width="672"></p>
 </div>
@@ -909,19 +928,24 @@ W 318 101124 318 111.2781 1309.875</code></pre>
 <div class="sourceCode cell-code" id="cb45"><pre class="sourceCode r code-with-copy"><code class="sourceCode r"><span id="cb45-1"><a href="#cb45-1" aria-hidden="true" tabindex="-1"></a>quadrant[DV_mean <span class="sc">&lt;</span><span class="dv">0</span> <span class="sc">&amp;</span> lm_i_mean<span class="sc">&gt;</span><span class="dv">0</span>] <span class="ot">&lt;-</span> <span class="dv">1</span></span>
 <span id="cb45-2"><a href="#cb45-2" aria-hidden="true" tabindex="-1"></a>quadrant[DV_mean <span class="sc">&gt;</span><span class="dv">0</span> <span class="sc">&amp;</span> lm_i_mean<span class="sc">&lt;</span><span class="dv">0</span>] <span class="ot">&lt;-</span> <span class="dv">2</span></span>
 <span id="cb45-3"><a href="#cb45-3" aria-hidden="true" tabindex="-1"></a>quadrant[DV_mean <span class="sc">&lt;</span><span class="dv">0</span> <span class="sc">&amp;</span> lm_i_mean<span class="sc">&lt;</span><span class="dv">0</span>] <span class="ot">&lt;-</span> <span class="dv">3</span>  </span>
-<span id="cb45-4"><a href="#cb45-4" aria-hidden="true" tabindex="-1"></a>quadrant[DV_mean <span class="sc">&gt;</span><span class="dv">0</span> <span class="sc">&amp;</span> lm_i_mean<span class="sc">&gt;</span><span class="dv">0</span>] <span class="ot">&lt;-</span> <span class="dv">4</span>      </span>
-<span id="cb45-5"><a href="#cb45-5" aria-hidden="true" tabindex="-1"></a>quadrant2[DV_median <span class="sc">&lt;</span><span class="dv">0</span> <span class="sc">&amp;</span> lm_i_median<span class="sc">&gt;</span><span class="dv">0</span>] <span class="ot">&lt;-</span> <span class="dv">1</span></span>
-<span id="cb45-6"><a href="#cb45-6" aria-hidden="true" tabindex="-1"></a>quadrant2[DV_median <span class="sc">&gt;</span><span class="dv">0</span> <span class="sc">&amp;</span> lm_i_median<span class="sc">&lt;</span><span class="dv">0</span>] <span class="ot">&lt;-</span> <span class="dv">2</span></span>
-<span id="cb45-7"><a href="#cb45-7" aria-hidden="true" tabindex="-1"></a>quadrant2[DV_median <span class="sc">&lt;</span><span class="dv">0</span> <span class="sc">&amp;</span> lm_i_median<span class="sc">&lt;</span><span class="dv">0</span>] <span class="ot">&lt;-</span> <span class="dv">3</span>  </span>
-<span id="cb45-8"><a href="#cb45-8" aria-hidden="true" tabindex="-1"></a>quadrant2[DV_median <span class="sc">&gt;</span><span class="dv">0</span> <span class="sc">&amp;</span> lm_i_median<span class="sc">&gt;</span><span class="dv">0</span>] <span class="ot">&lt;-</span> <span class="dv">4</span>   </span>
-<span id="cb45-9"><a href="#cb45-9" aria-hidden="true" tabindex="-1"></a>quadrant3[DV_max <span class="sc">&lt;</span><span class="dv">0</span> <span class="sc">&amp;</span> lm_i_max<span class="sc">&gt;</span><span class="dv">0</span>] <span class="ot">&lt;-</span> <span class="dv">1</span></span>
-<span id="cb45-10"><a href="#cb45-10" aria-hidden="true" tabindex="-1"></a>quadrant3[DV_max <span class="sc">&gt;</span><span class="dv">0</span> <span class="sc">&amp;</span> lm_i_max<span class="sc">&lt;</span><span class="dv">0</span>] <span class="ot">&lt;-</span> <span class="dv">2</span></span>
-<span id="cb45-11"><a href="#cb45-11" aria-hidden="true" tabindex="-1"></a>quadrant3[DV_max <span class="sc">&lt;</span><span class="dv">0</span> <span class="sc">&amp;</span> lm_i_max<span class="sc">&lt;</span><span class="dv">0</span>] <span class="ot">&lt;-</span> <span class="dv">3</span>  </span>
-<span id="cb45-12"><a href="#cb45-12" aria-hidden="true" tabindex="-1"></a>quadrant3[DV_max <span class="sc">&gt;</span><span class="dv">0</span> <span class="sc">&amp;</span> lm_i_max<span class="sc">&gt;</span><span class="dv">0</span>] <span class="ot">&lt;-</span> <span class="dv">4</span>    </span>
-<span id="cb45-13"><a href="#cb45-13" aria-hidden="true" tabindex="-1"></a>quadrant4[DV_min <span class="sc">&lt;</span><span class="dv">0</span> <span class="sc">&amp;</span> lm_i_min<span class="sc">&gt;</span><span class="dv">0</span>] <span class="ot">&lt;-</span> <span class="dv">1</span></span>
-<span id="cb45-14"><a href="#cb45-14" aria-hidden="true" tabindex="-1"></a>quadrant4[DV_min <span class="sc">&gt;</span><span class="dv">0</span> <span class="sc">&amp;</span> lm_i_min<span class="sc">&lt;</span><span class="dv">0</span>] <span class="ot">&lt;-</span> <span class="dv">2</span></span>
-<span id="cb45-15"><a href="#cb45-15" aria-hidden="true" tabindex="-1"></a>quadrant4[DV_min <span class="sc">&lt;</span><span class="dv">0</span> <span class="sc">&amp;</span> lm_i_min<span class="sc">&lt;</span><span class="dv">0</span>] <span class="ot">&lt;-</span> <span class="dv">3</span>  </span>
-<span id="cb45-16"><a href="#cb45-16" aria-hidden="true" tabindex="-1"></a>quadrant4[DV_min <span class="sc">&gt;</span><span class="dv">0</span> <span class="sc">&amp;</span> lm_i_min<span class="sc">&gt;</span><span class="dv">0</span>] <span class="ot">&lt;-</span> <span class="dv">4</span>    </span></code><button title="Copy to Clipboard" class="code-copy-button"><i class="bi"></i></button></pre></div>
+<span id="cb45-4"><a href="#cb45-4" aria-hidden="true" tabindex="-1"></a>quadrant[DV_mean <span class="sc">&gt;</span><span class="dv">0</span> <span class="sc">&amp;</span> lm_i_mean<span class="sc">&gt;</span><span class="dv">0</span>] <span class="ot">&lt;-</span> <span class="dv">4</span>  </span>
+<span id="cb45-5"><a href="#cb45-5" aria-hidden="true" tabindex="-1"></a>signif <span class="ot">&lt;-</span> <span class="fl">0.05</span>  </span>
+<span id="cb45-6"><a href="#cb45-6" aria-hidden="true" tabindex="-1"></a>quadrant[airbnb.localMI_mean<span class="sc">$</span>Pr.Ii<span class="sc">&gt;</span>signif] <span class="ot">&lt;-</span> <span class="dv">0</span></span>
+<span id="cb45-7"><a href="#cb45-7" aria-hidden="true" tabindex="-1"></a>quadrant2[DV_median <span class="sc">&lt;</span><span class="dv">0</span> <span class="sc">&amp;</span> lm_i_median<span class="sc">&gt;</span><span class="dv">0</span>] <span class="ot">&lt;-</span> <span class="dv">1</span></span>
+<span id="cb45-8"><a href="#cb45-8" aria-hidden="true" tabindex="-1"></a>quadrant2[DV_median <span class="sc">&gt;</span><span class="dv">0</span> <span class="sc">&amp;</span> lm_i_median<span class="sc">&lt;</span><span class="dv">0</span>] <span class="ot">&lt;-</span> <span class="dv">2</span></span>
+<span id="cb45-9"><a href="#cb45-9" aria-hidden="true" tabindex="-1"></a>quadrant2[DV_median <span class="sc">&lt;</span><span class="dv">0</span> <span class="sc">&amp;</span> lm_i_median<span class="sc">&lt;</span><span class="dv">0</span>] <span class="ot">&lt;-</span> <span class="dv">3</span>  </span>
+<span id="cb45-10"><a href="#cb45-10" aria-hidden="true" tabindex="-1"></a>quadrant2[DV_median <span class="sc">&gt;</span><span class="dv">0</span> <span class="sc">&amp;</span> lm_i_median<span class="sc">&gt;</span><span class="dv">0</span>] <span class="ot">&lt;-</span> <span class="dv">4</span>   </span>
+<span id="cb45-11"><a href="#cb45-11" aria-hidden="true" tabindex="-1"></a>quadrant2[airbnb.localMI_median<span class="sc">$</span>Pr.Ii<span class="sc">&gt;</span>signif] <span class="ot">&lt;-</span> <span class="dv">0</span></span>
+<span id="cb45-12"><a href="#cb45-12" aria-hidden="true" tabindex="-1"></a>quadrant3[DV_max <span class="sc">&lt;</span><span class="dv">0</span> <span class="sc">&amp;</span> lm_i_max<span class="sc">&gt;</span><span class="dv">0</span>] <span class="ot">&lt;-</span> <span class="dv">1</span></span>
+<span id="cb45-13"><a href="#cb45-13" aria-hidden="true" tabindex="-1"></a>quadrant3[DV_max <span class="sc">&gt;</span><span class="dv">0</span> <span class="sc">&amp;</span> lm_i_max<span class="sc">&lt;</span><span class="dv">0</span>] <span class="ot">&lt;-</span> <span class="dv">2</span></span>
+<span id="cb45-14"><a href="#cb45-14" aria-hidden="true" tabindex="-1"></a>quadrant3[DV_max <span class="sc">&lt;</span><span class="dv">0</span> <span class="sc">&amp;</span> lm_i_max<span class="sc">&lt;</span><span class="dv">0</span>] <span class="ot">&lt;-</span> <span class="dv">3</span>  </span>
+<span id="cb45-15"><a href="#cb45-15" aria-hidden="true" tabindex="-1"></a>quadrant3[DV_max <span class="sc">&gt;</span><span class="dv">0</span> <span class="sc">&amp;</span> lm_i_max<span class="sc">&gt;</span><span class="dv">0</span>] <span class="ot">&lt;-</span> <span class="dv">4</span>  </span>
+<span id="cb45-16"><a href="#cb45-16" aria-hidden="true" tabindex="-1"></a>quadrant3[airbnb.localMI_max<span class="sc">$</span>Pr.Ii<span class="sc">&gt;</span>signif] <span class="ot">&lt;-</span> <span class="dv">0</span></span>
+<span id="cb45-17"><a href="#cb45-17" aria-hidden="true" tabindex="-1"></a>quadrant4[DV_min <span class="sc">&lt;</span><span class="dv">0</span> <span class="sc">&amp;</span> lm_i_min<span class="sc">&gt;</span><span class="dv">0</span>] <span class="ot">&lt;-</span> <span class="dv">1</span></span>
+<span id="cb45-18"><a href="#cb45-18" aria-hidden="true" tabindex="-1"></a>quadrant4[DV_min <span class="sc">&gt;</span><span class="dv">0</span> <span class="sc">&amp;</span> lm_i_min<span class="sc">&lt;</span><span class="dv">0</span>] <span class="ot">&lt;-</span> <span class="dv">2</span></span>
+<span id="cb45-19"><a href="#cb45-19" aria-hidden="true" tabindex="-1"></a>quadrant4[DV_min <span class="sc">&lt;</span><span class="dv">0</span> <span class="sc">&amp;</span> lm_i_min<span class="sc">&lt;</span><span class="dv">0</span>] <span class="ot">&lt;-</span> <span class="dv">3</span>  </span>
+<span id="cb45-20"><a href="#cb45-20" aria-hidden="true" tabindex="-1"></a>quadrant4[DV_min <span class="sc">&gt;</span><span class="dv">0</span> <span class="sc">&amp;</span> lm_i_min<span class="sc">&gt;</span><span class="dv">0</span>] <span class="ot">&lt;-</span> <span class="dv">4</span> </span>
+<span id="cb45-21"><a href="#cb45-21" aria-hidden="true" tabindex="-1"></a>quadrant4[airbnb.localMI_min<span class="sc">$</span>Pr.Ii<span class="sc">&gt;</span>signif] <span class="ot">&lt;-</span> <span class="dv">0</span></span></code><button title="Copy to Clipboard" class="code-copy-button"><i class="bi"></i></button></pre></div>
 </div>
 </section>
 <section id="plotting-lisa-map" class="level2">
@@ -938,8 +962,9 @@ W 318 101124 318 111.2781 1309.875</code></pre>
 <span id="cb46-9"><a href="#cb46-9" aria-hidden="true" tabindex="-1"></a>          <span class="at">labels =</span> clusters[<span class="fu">c</span>(<span class="fu">sort</span>(<span class="fu">unique</span>(quadrant)))<span class="sc">+</span><span class="dv">1</span>],</span>
 <span id="cb46-10"><a href="#cb46-10" aria-hidden="true" tabindex="-1"></a>          <span class="at">popup.vars =</span> <span class="fu">c</span>(<span class="st">""</span>)) <span class="sc">+</span></span>
 <span id="cb46-11"><a href="#cb46-11" aria-hidden="true" tabindex="-1"></a>  <span class="fu">tm_view</span>(<span class="at">set.zoom.limits =</span> <span class="fu">c</span>(<span class="dv">11</span>,<span class="dv">17</span>)) <span class="sc">+</span></span>
-<span id="cb46-12"><a href="#cb46-12" aria-hidden="true" tabindex="-1"></a>  <span class="fu">tm_borders</span>(<span class="at">alpha=</span><span class="fl">0.5</span>)</span>
-<span id="cb46-13"><a href="#cb46-13" aria-hidden="true" tabindex="-1"></a>lisa_mean</span></code><button title="Copy to Clipboard" class="code-copy-button"><i class="bi"></i></button></pre></div>
+<span id="cb46-12"><a href="#cb46-12" aria-hidden="true" tabindex="-1"></a>  <span class="fu">tm_borders</span>(<span class="at">alpha=</span><span class="fl">0.5</span>) <span class="sc">+</span> </span>
+<span id="cb46-13"><a href="#cb46-13" aria-hidden="true" tabindex="-1"></a>  <span class="fu">tm_text</span>(<span class="st">"SUBZONE_N"</span>, <span class="fl">0.12</span>)</span>
+<span id="cb46-14"><a href="#cb46-14" aria-hidden="true" tabindex="-1"></a>lisa_mean</span></code><button title="Copy to Clipboard" class="code-copy-button"><i class="bi"></i></button></pre></div>
 <div class="cell-output-display">
 <p><img src="Take-home_Ex03_files/figure-html/unnamed-chunk-25-1.png" class="img-fluid" width="672"></p>
 </div>
